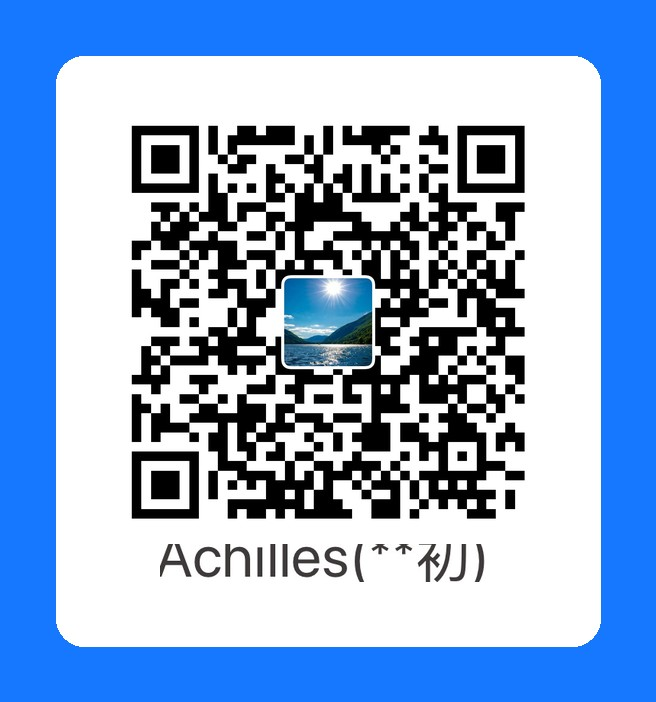
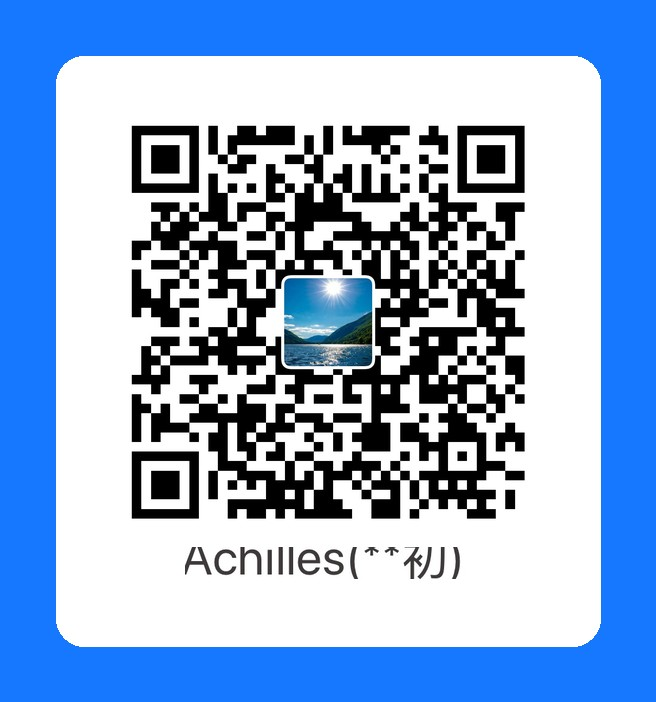
Shrink Alipay QR caption by one size

Changed region(s): [[0.2439, 0.7778, 0.7622, 0.8376]]

diff --git a/README.md b/README.md
@@ -306,7 +306,7 @@ FocusQuota 完全免费，也永远免费。如果你觉得它帮你管住了刷
 
 | 微信 | 支付宝 |
 | --- | --- |
-| <img src="sponsor/wechat.jpg?v=3" width="200"> | <img src="sponsor/alipay.jpg?v=3" width="200"> |
+| <img src="sponsor/wechat.jpg?v=3" width="200"> | <img src="sponsor/alipay.jpg?v=4" width="200"> |
 
 赞助完全自愿，不影响任何功能。
 
